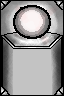
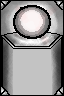
display card type

Changed region(s): [[0.375, 0.4688, 0.6875, 0.5], [0.7812, 0.4062, 0.9375, 0.5]]

diff --git a/src/card.ts b/src/card.ts
@@ -1,5 +1,5 @@
 import { Assets, Sprite, Container, Graphics, HTMLText, Text, RenderTexture } from "pixi.js";
-import { CardDefinition, cardDefinitions, CardTemplate } from "./cardDefinitions";
+import { CardDefinition, cardDefinitions, CardTemplate, CardType } from "./cardDefinitions";
 import { game } from "./game";
 import { BattleInstance } from "./player";
 import { EquipmentCategory, equipmentDefinitions } from "./equipment";
@@ -9,6 +9,7 @@ export class Card {
     container: Container;
     cardSprite: Sprite;
     usageCostSprite: Sprite;
+    cardTypeSprite: Sprite;
     inHand = true;
     name: Text;
     usageCost: Text;
@@ -36,22 +37,35 @@ export class Card {
         this.container = new Container();
 
         // hacky implementation to get category of card (first occurence)
-        let asset!: string;
+        let cardAsset!: string;
         const equipment = Array.from(equipmentDefinitions.values()).find((equipment) => equipment.cards.includes(this.type));
         if (equipment) {
             switch (equipment.category) {
                 case EquipmentCategory.starting:
-                    asset = "basicCard";
+                    cardAsset = "basicCard";
                     break;
                 case EquipmentCategory.arcane:
-                    asset = "arcaneCard";
+                    cardAsset = "arcaneCard";
                     break;
                 case EquipmentCategory.hitech:
-                    asset = "hitechCard";
+                    cardAsset = "hitechCard";
                     break;
             }
         }
-        this.cardSprite = new Sprite(Assets.get(asset ?? "basicCard"));
+
+        let typeAsset!: string;
+        if (equipment) {
+            switch (this.definition.family) {
+                case CardType.attack:
+                    typeAsset = "attackType";
+                    break;
+                case CardType.skill:
+                    typeAsset = "skillType";
+                    break;
+            }
+        }
+
+        this.cardSprite = new Sprite(Assets.get(cardAsset ?? "basicCard"));
         this.cardSprite.texture.source.scaleMode = "nearest";
         this.cardSprite.position.set(-100, -250);
         this.cardSprite.scale.set(3.15);
@@ -70,15 +84,40 @@ export class Card {
         const cardOutline = new Graphics();
         originCircle.roundRect(-5, -5, 10, 10)
         originCircle.stroke({ color: 0x000000, width: 3 });
-        originCircle.fill(0xffffff);
+        originCircle.fill(0xb0b0b0);
 
         cardOutline.roundRect(this.cardSprite.position.x, this.cardSprite.position.y, this.cardSprite.width + 1, this.cardSprite.height + 1, 2);
         cardOutline.stroke({ color: 0x808080, width: 3 });
 
+        this.cardTypeSprite = new Sprite(Assets.get(typeAsset ?? "attackType"));
+        this.cardTypeSprite.texture.source.scaleMode = "nearest";
+        this.cardTypeSprite.anchor.set(0.5, 0.5);
+        this.cardTypeSprite.scale.set(0.7);
+        this.cardTypeSprite.position.set(this.cardSprite.width/2 - this.cardTypeSprite.width/2 + 5, -230);
+
         this.container.addChild(this.cardSprite);
         this.container.addChild(originCircle, cardOutline);
         this.container.addChild(this.usageCostSprite, usageCostOutlineSprite);
+        this.container.addChild(this.cardTypeSprite);
         game.cardContainer.addChild(this.container);
+
+        const cardTypeString = CardType[this.definition.family]
+        const color = cardTypeString == "attack" ? 0xff8800 : 0x00cccc;
+        // weird offset for A
+        const offset = cardTypeString == "attack" ? 1 : 0;
+
+        const cardType = new Text({
+            text: cardTypeString[0].toUpperCase(),
+            style: {
+                fontFamily: "Arial",
+                fontSize: 24,
+                fill: color,
+                stroke: { color: 0x202020, width: 1 },
+                align: "center",
+            },
+        });
+        cardType.anchor.set(0.5, 0.5);
+        cardType.position.set(this.cardTypeSprite.position.x + offset, this.cardTypeSprite.position.y);
 
         this.name = new Text({
             text: this.definition.name,
@@ -113,6 +152,7 @@ export class Card {
         this.usageCost.anchor.set(0.5, 0.5);
         this.usageCost.position.set(this.usageCostSprite.position.x + this.usageCostSprite.width/2, this.usageCostSprite.position.y + this.usageCostSprite.height/2);
 
+        this.container.addChild(cardType);
         this.container.addChild(this.usageCost);
         this.container.addChild(this.description);
         this.container.addChild(this.name);
